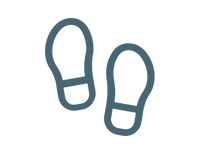
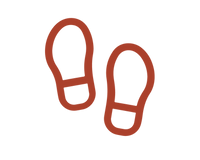
Switch to a warm palette

Changed region(s): [[0.51, 0.25, 0.78, 0.875], [0.21, 0.0938, 0.48, 0.7188]]

diff --git a/sass/_home.scss b/sass/_home.scss
@@ -50,12 +50,12 @@
 .intro-text {
     max-width: $text-width;
     padding-left: clamp(2rem, 5vw, 4rem);
-    border-left: 1px solid $sand-dark;
+    border-left: 1px solid $rose;
 
     // The first paragraph (title and speciality) reads as a short statement.
     p:first-of-type {
         margin-bottom: 1.75rem;
-        color: $teal-dark;
+        color: $brown;
         font-size: clamp(1.3rem, 2.2vw, 1.6rem);
         font-weight: 300;
         line-height: 1.45;
@@ -88,7 +88,7 @@
         max-width: 14rem;
         padding: 2rem 1rem 1.75rem;
         background: $white;
-        color: $teal-dark;
+        color: $brown;
         font-weight: 500;
         text-align: center;
     }
@@ -141,10 +141,10 @@
 .quote {
     padding-block: clamp(6rem, 14vw, 9rem);
     color: $white;
-    // A strong teal layer leaves the photo as a faint texture, so the text
+    // A strong brown layer leaves the photo as a faint texture, so the text
     // stays readable even where it crosses the hands.
     background:
-        linear-gradient(rgba($teal-dark, 0.9), rgba($teal-dark, 0.9)),
+        linear-gradient(rgba($brown, 0.9), rgba($brown, 0.9)),
         url("/images/manos-cielo.jpg") center / cover;
 
     blockquote {
@@ -175,7 +175,7 @@
         content: "“";
         display: block;
         height: 3.25rem;
-        color: $sand-dark;
+        color: $rose;
         font-size: 6rem;
         font-weight: 500;
         line-height: 1;
@@ -186,12 +186,12 @@
     }
 
     figcaption {
-        color: $teal-dark;
+        color: $brown;
         font-weight: 600;
 
         &::before {
             content: "— ";
-            color: $teal;
+            color: $clay;
         }
     }
 }

diff --git a/sass/_tokens.scss b/sass/_tokens.scss
@@ -4,13 +4,15 @@
 // so changing a value here updates the whole site.
 // =========================================================
 
-// ---------- Palette (taken from the original site) ----------
-$teal: #486573;       // accents: heading underlines, labels, hover states
-$teal-dark: #22495a;  // headings, links, main buttons, footer
-$sand: #f7f0ec;       // soft section backgrounds, cards
-$sand-dark: #e8dcd5;  // borders and decorative quote marks
-$text: #414141;
-$white: #fff;
+// ---------- Palette (warm colours taken from the photos on the "Sobre mí" page) ----------
+$brown: #4e2d22;      // headings, links, footer, quote overlay, focus outline
+$clay: #aa3f2a;       // accents: buttons, labels, heading underlines, icons
+                      // (the icons in static/images/iconos/ are PNGs painted in this colour)
+$clay-dark: #87301f;  // button hover
+$rose: #e6c0b6;       // borders, blocks behind photos, footer labels, quote marks
+$sand: #f6eadd;       // soft section backgrounds, cards
+$text: #3b302c;       // body text
+$white: #fffaf4;      // page background and text on dark colours (a warm white, not pure white)
 
 // ---------- Font ----------
 // Raleway is self-hosted: see _fonts.scss and static/fonts/raleway/.
@@ -39,8 +41,8 @@ $mobile: 760px;
   }
 }
 
-// A solid sand-coloured block peeking out from behind a photo.
-@mixin photo-offset($size: 2rem, $color: $sand) {
+// A solid rose-coloured block peeking out from behind a photo.
+@mixin photo-offset($size: 2rem, $color: $rose) {
   box-shadow: $size $size 0 $color;
   margin-right: $size;
   margin-bottom: $size;

diff --git a/sass/_base.scss b/sass/_base.scss
@@ -36,7 +36,7 @@ h1,
 h2,
 h3 {
   margin: 0 0 1rem;
-  color: $teal-dark;
+  color: $brown;
   line-height: 1.2;
   letter-spacing: -0.01em;
 }
@@ -65,7 +65,7 @@ strong {
 }
 
 a {
-  color: $teal-dark;
+  color: $brown;
   text-underline-offset: 0.2em;
 }
 
@@ -76,7 +76,7 @@ img {
 }
 
 :focus-visible {
-  outline: 2px solid $teal;
+  outline: 2px solid $brown;
   outline-offset: 3px;
 }
 
@@ -101,7 +101,7 @@ img {
 
 // ---------- Headings ----------
 
-// Section heading with a short teal line underneath.
+// Section heading with a short clay line underneath.
 .section-title {
   margin-bottom: 2.5rem;
 
@@ -111,7 +111,7 @@ img {
     width: 3rem;
     height: 2px;
     margin-top: 1rem;
-    background: $teal;
+    background: $clay;
   }
 
   &--center {
@@ -126,7 +126,7 @@ img {
 // Small uppercase label shown above a title.
 .eyebrow {
   margin: 0 0 0.75rem;
-  color: $teal;
+  color: $clay;
   font-size: 0.8rem;
   font-weight: 600;
   letter-spacing: 0.14em;
@@ -140,7 +140,7 @@ img {
   display: inline-block;
   padding: 0.85rem 1.75rem;
   border-radius: 999px;
-  background: $teal-dark;
+  background: $clay;
   color: $white;
   font-size: 0.95rem;
   font-weight: 600;
@@ -151,16 +151,16 @@ img {
   transition: background-color 0.2s;
 
   &:hover {
-    background: $teal;
+    background: $clay-dark;
   }
 
   // Sand version, for dark backgrounds such as the footer.
   &--light {
     background: $sand;
-    color: $teal-dark;
+    color: $brown;
 
     &:hover {
-      background: $sand-dark;
+      background: $rose;
     }
   }
 }

diff --git a/sass/_header.scss b/sass/_header.scss
@@ -9,7 +9,7 @@
   position: sticky;
   top: 0;
   z-index: 10;
-  border-bottom: 1px solid $sand-dark;
+  border-bottom: 1px solid $rose;
   background: rgba($white, 0.95);
   backdrop-filter: blur(8px);
 
@@ -38,14 +38,14 @@
 
   &-name {
     display: block;
-    color: $teal-dark;
+    color: $brown;
     font-size: 1.375rem;
     font-weight: 500;
   }
 
   &-role {
     display: block;
-    color: $teal;
+    color: $clay;
     font-size: 0.7rem;
     font-weight: 600;
     letter-spacing: 0.14em;
@@ -68,8 +68,8 @@
 
     &:hover,
     &[aria-current="page"] {
-      border-color: $teal;
-      color: $teal-dark;
+      border-color: $clay;
+      color: $brown;
     }
   }
 

diff --git a/sass/_footer.scss b/sass/_footer.scss
@@ -6,7 +6,7 @@
 
 .site-footer {
   padding-top: clamp(4rem, 8vw, 5.5rem);
-  background: $teal-dark;
+  background: $brown;
   color: $white;
 
   h2 {
@@ -15,6 +15,11 @@
 
   a:not(.button) {
     color: $white;
+  }
+
+  // The default brown outline would not show on the brown background.
+  :focus-visible {
+    outline-color: $sand;
   }
 }
 
@@ -41,7 +46,7 @@
   margin: 0;
 
   dt {
-    color: $sand-dark;
+    color: $rose;
     font-size: 0.75rem;
     font-weight: 600;
     letter-spacing: 0.14em;
